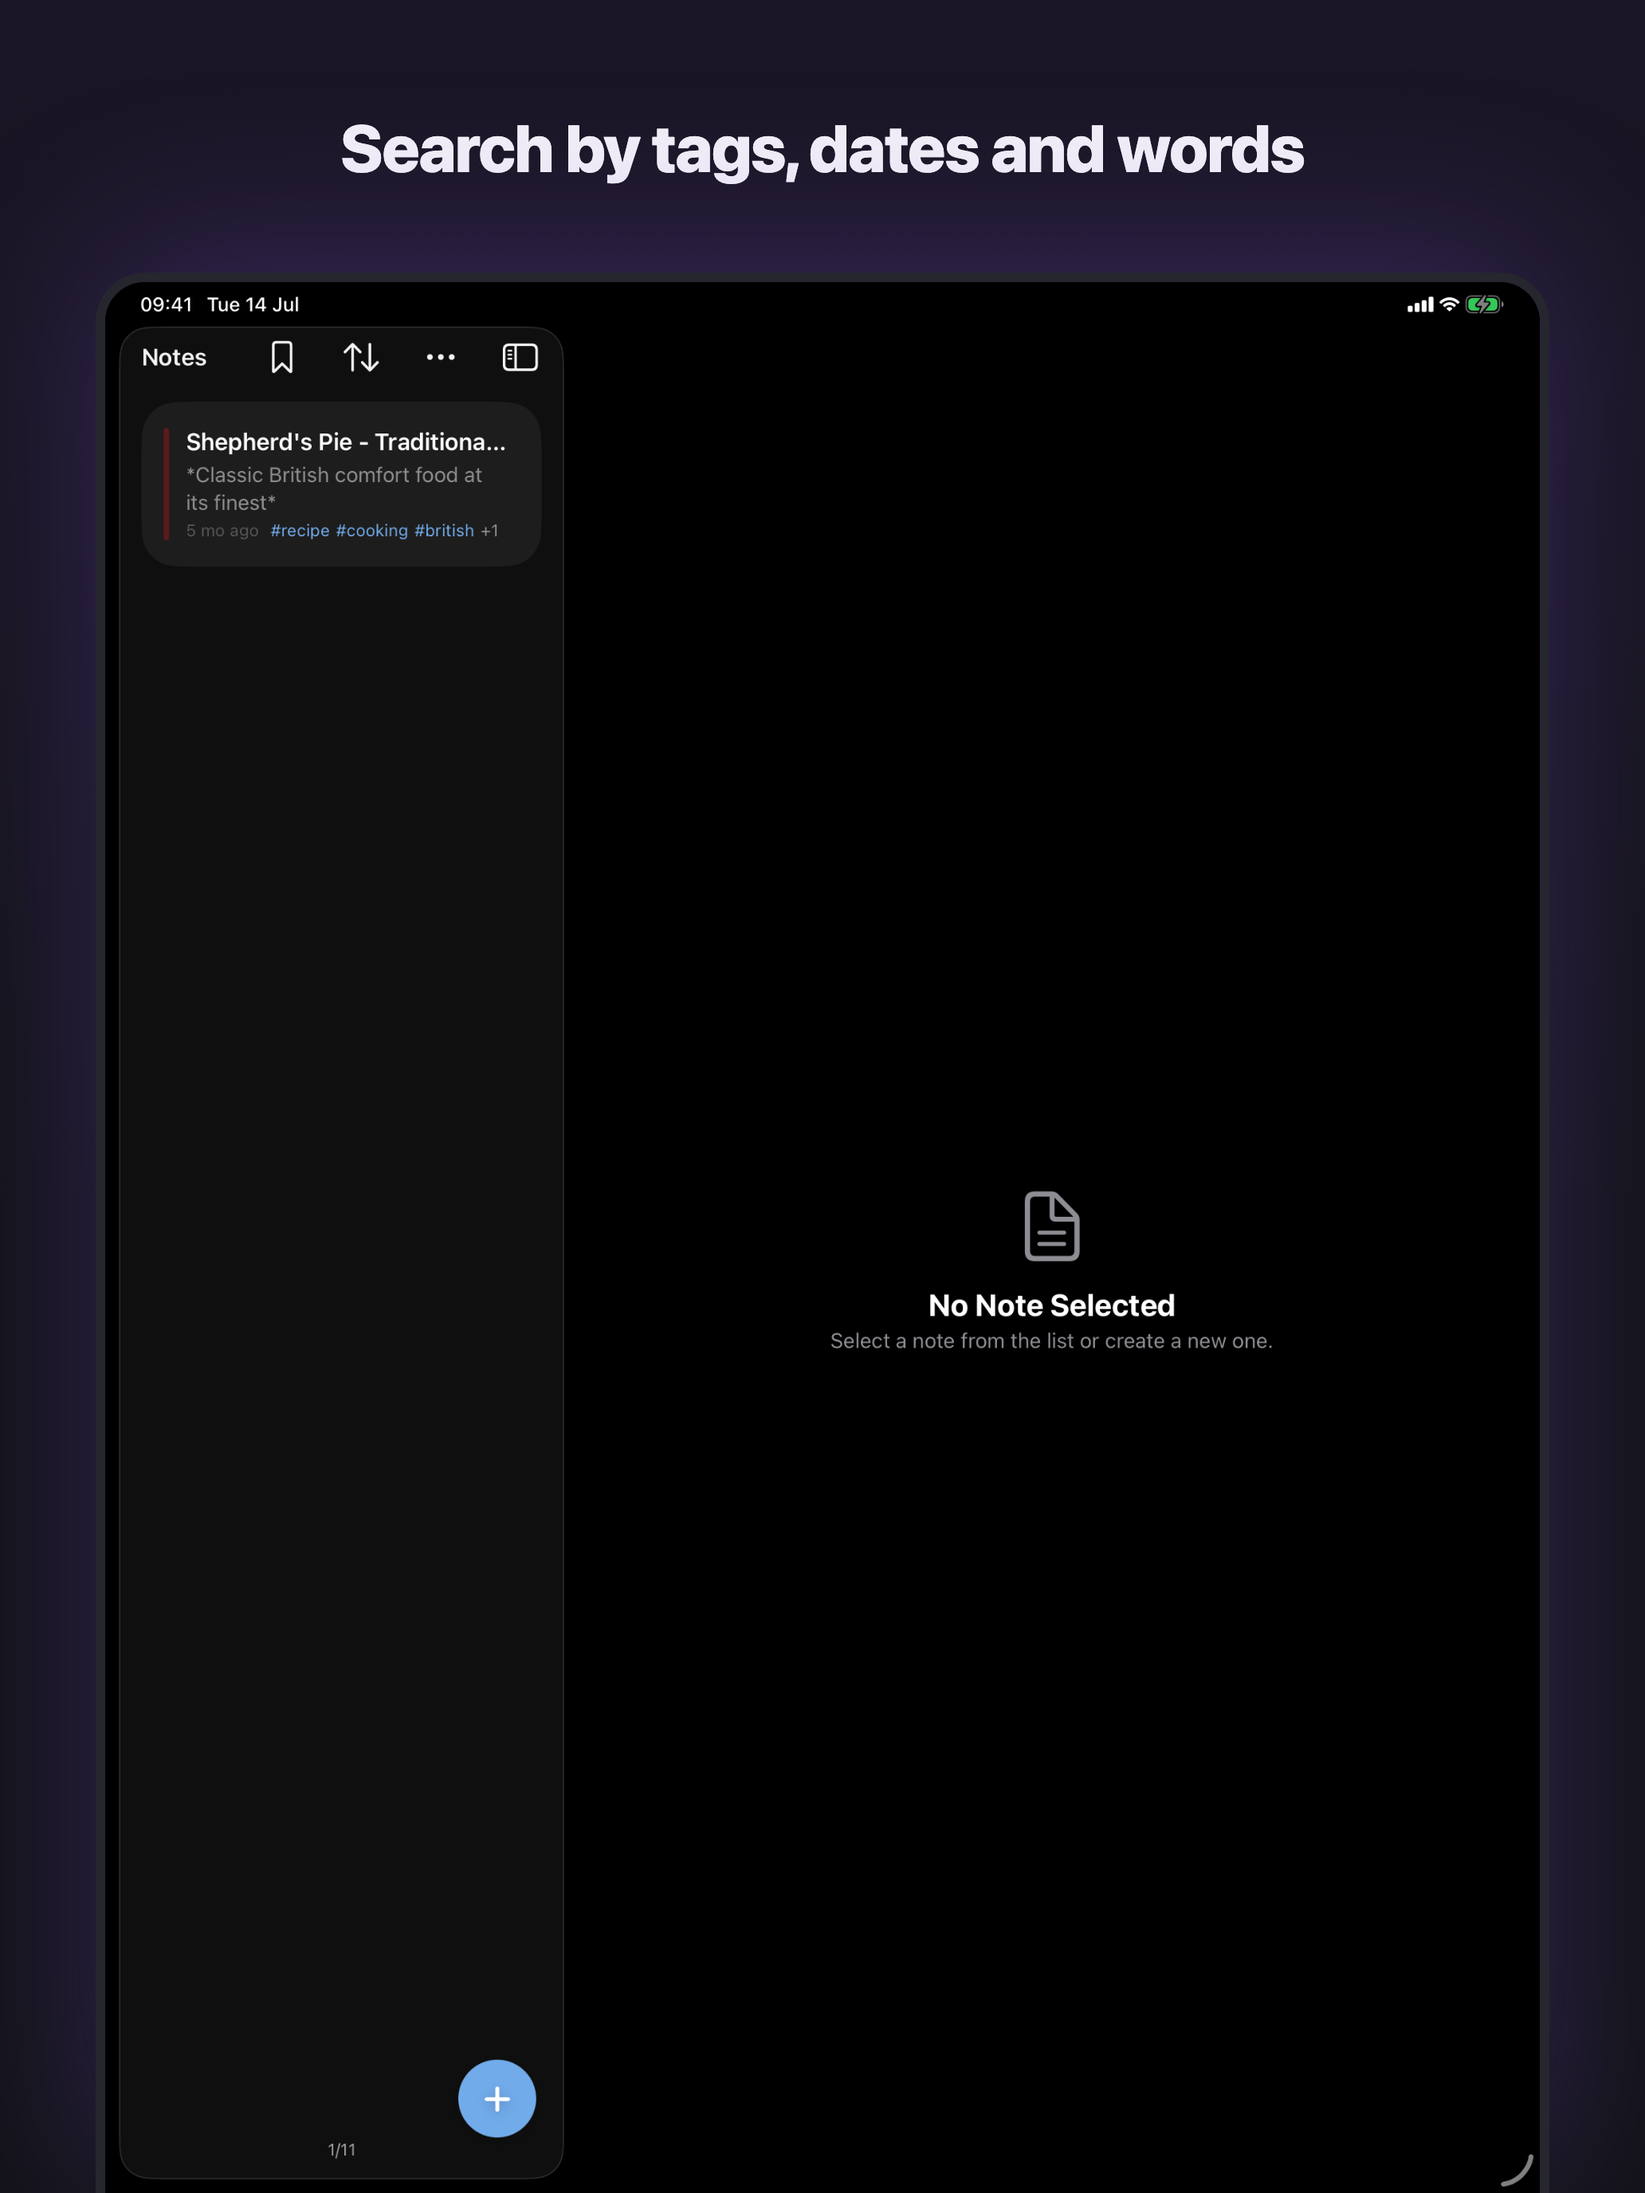
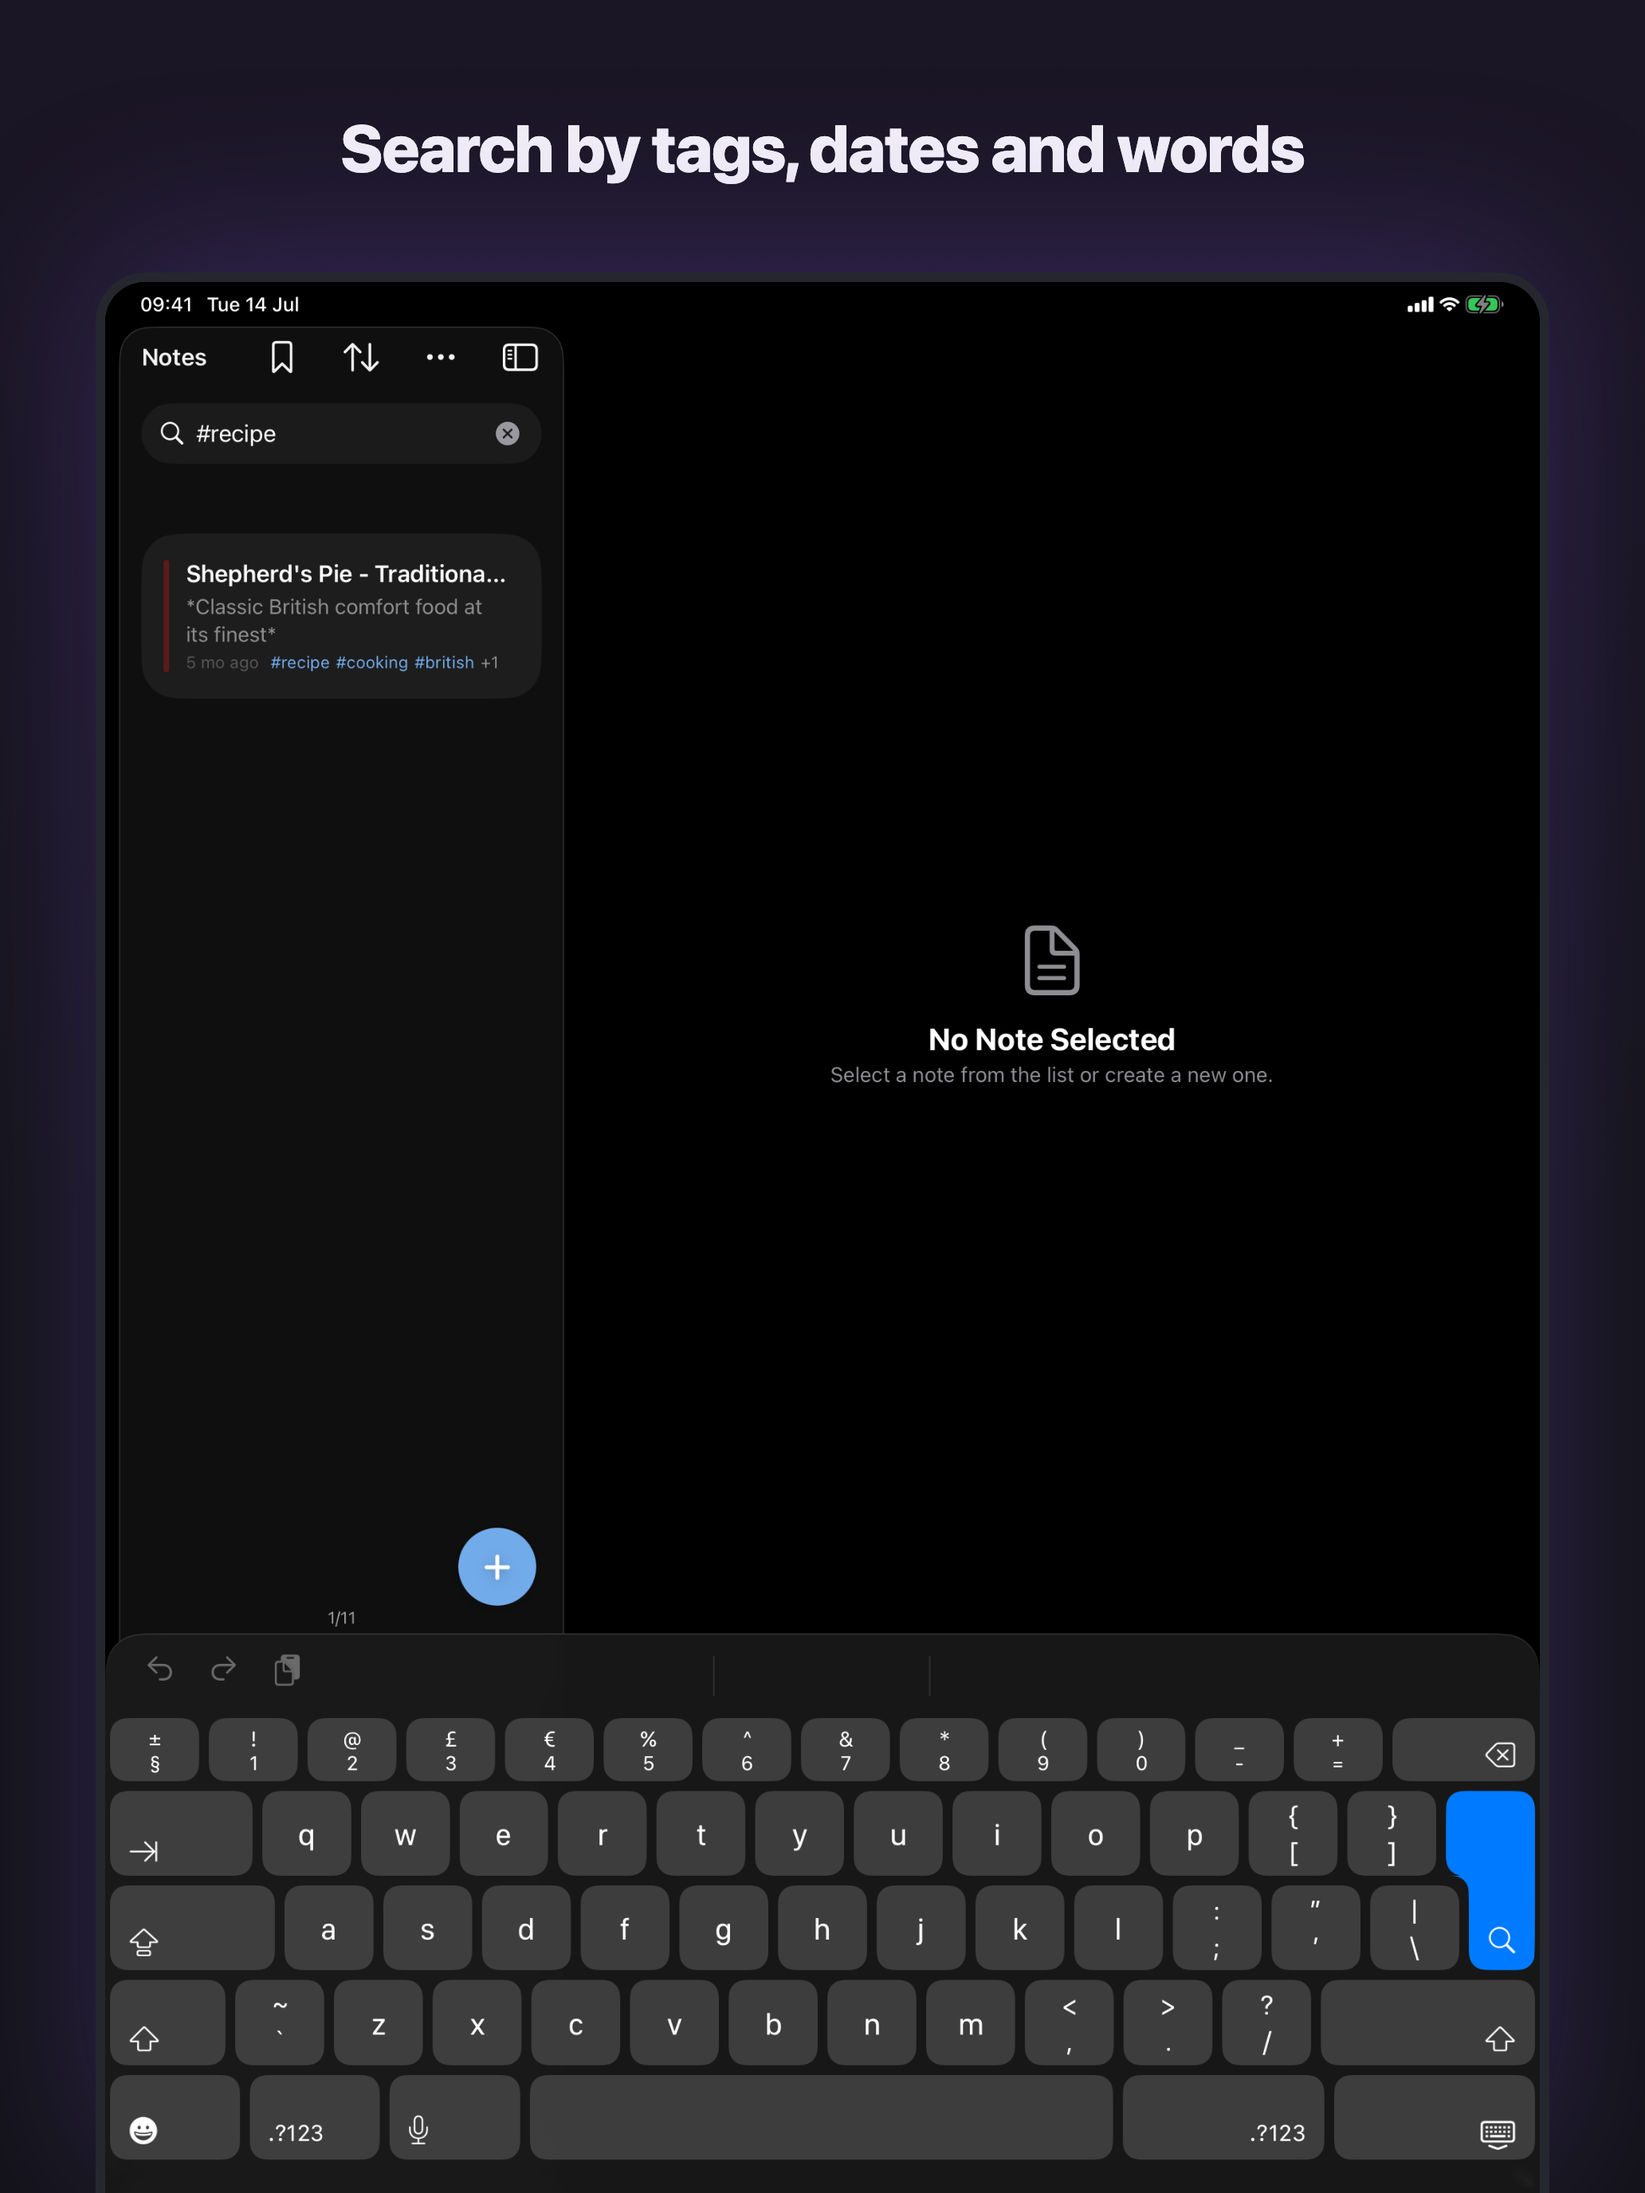
fix(demo): present search UI in search screenshot frames
The demo seeder set appState.searchQuery and called scheduleSearch()
for the search screenshot screen, but never presented the search UI
itself. NoteListView only reveals its .searchable field when
appState.searchFocused flips true (the same mechanism the
com.jottery.search quick action already relies on), so the search
bar and keyboard never appeared and frame 03-search read as a plain
note list instead of a search.

Set appState.searchFocused = true in the seeder's .search case to
reuse that existing wiring — no new plumbing needed in NoteListView.

Re-captured and recomposed 03-search for both iphone-69 and ipad-13.

diff --git a/ios-native/Jottery/Jottery/Services/DemoSeedService.swift b/ios-native/Jottery/Jottery/Services/DemoSeedService.swift
@@ -134,6 +134,12 @@ enum DemoSeedService {
             // the UI normally triggers that via `.onChange(of: searchQuery)`,
             // which never fires here since we set it before the view renders.
             appState.scheduleSearch()
+            // Setting `searchQuery` alone also doesn't present the search UI —
+            // `NoteListView` only reveals the search field when `searchFocused`
+            // flips true (same mechanism the `com.jottery.search` quick action
+            // uses), so without this the field never becomes visible for the
+            // screenshot even though the query text and filtering are correct.
+            appState.searchFocused = true
         case .sync:
             settings.syncEnabled = true
             settings.syncEndpoint = "https://notes.example.org"
